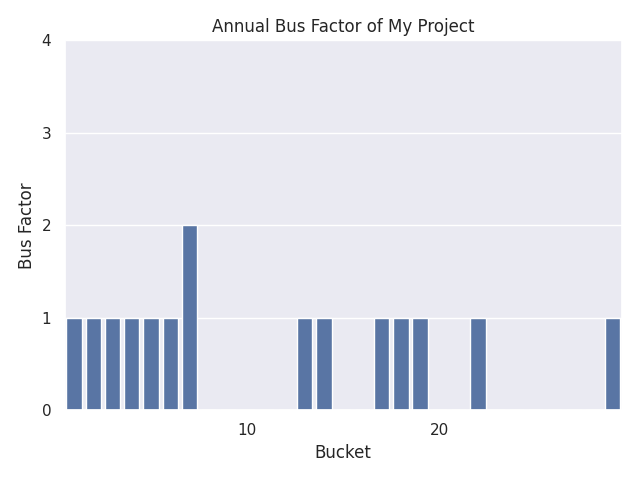
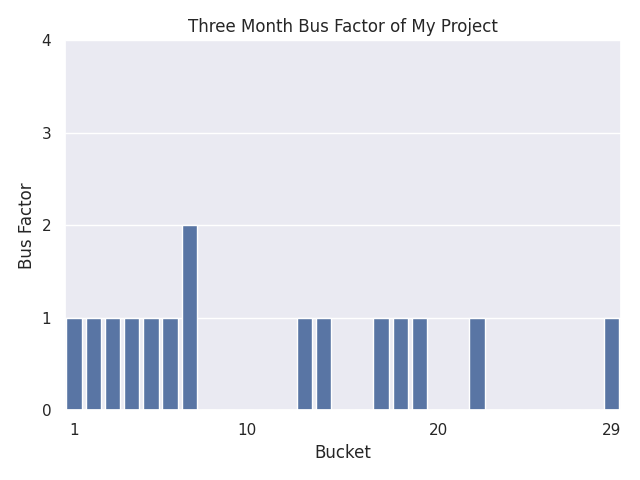
Got x axes and automatic naming working

diff --git a/plot-data/plot-prime.py b/plot-data/plot-prime.py
@@ -10,7 +10,7 @@ import math
 sql_file_path = "prime.db"
 projectName="My Project"
 
-def plot_table(tableName,x,y):
+def plot_bus_factor(tableName,x,y):
     # Connect to the SQLite database
     conn = sqlite3.Connection(database=sql_file_path)
     df = pd.read_sql_query("SELECT * FROM "+tableName, con=conn)
@@ -22,17 +22,23 @@ def plot_table(tableName,x,y):
 
     graph.set_xlabel("Bucket")
     graph.set_ylabel("Bus Factor")
-    plt.title("Annual Bus Factor of "+projectName)
+
+    words = tableName.split('_')
+    capitalized_words = [word.capitalize() for word in words]
+
+    plt.title(' '.join(capitalized_words)+" of "+projectName)
 
     spacing = math.floor(math.log(df[x].max(),10))
-    print (tableName+str(spacing))
-    print ("xmax: "+str(df[x].max()))
 
-    for ind, label in enumerate(graph.get_xticklabels()):
+    for ind, label in list(enumerate(graph.get_xticklabels())):
         if ind % (10**(spacing)) == 10**(spacing)-1:
             label.set_visible(True)
         else:
             label.set_visible(False)
+            
+        if ind == 0 or ind == df[x].max()-1:
+            label.set_visible(True)
+            
 
     #Set x and y axes
     max_value = df[y].max()
@@ -45,8 +51,10 @@ def plot_table(tableName,x,y):
     plt.close()
 
 
-plot_table("annual_bus_factor","bucket","bus_factor")
-plot_table("six_month_bus_factor","bucket","bus_factor")
-plot_table("three_month_bus_factor","bucket","bus_factor")
-plot_table("two_month_bus_factor","bucket","bus_factor")
-plot_table("monthly_bus_factor","bucket","bus_factor")
+plot_bus_factor("annual_bus_factor","bucket","bus_factor")
+plot_bus_factor("six_month_bus_factor","bucket","bus_factor")
+plot_bus_factor("three_month_bus_factor","bucket","bus_factor")
+plot_bus_factor("two_month_bus_factor","bucket","bus_factor")
+plot_bus_factor("monthly_bus_factor","bucket","bus_factor")
+plot_bus_factor("two_week_bus_factor","bucket","bus_factor")
+plot_bus_factor("weekly_bus_factor","bucket","bus_factor")
